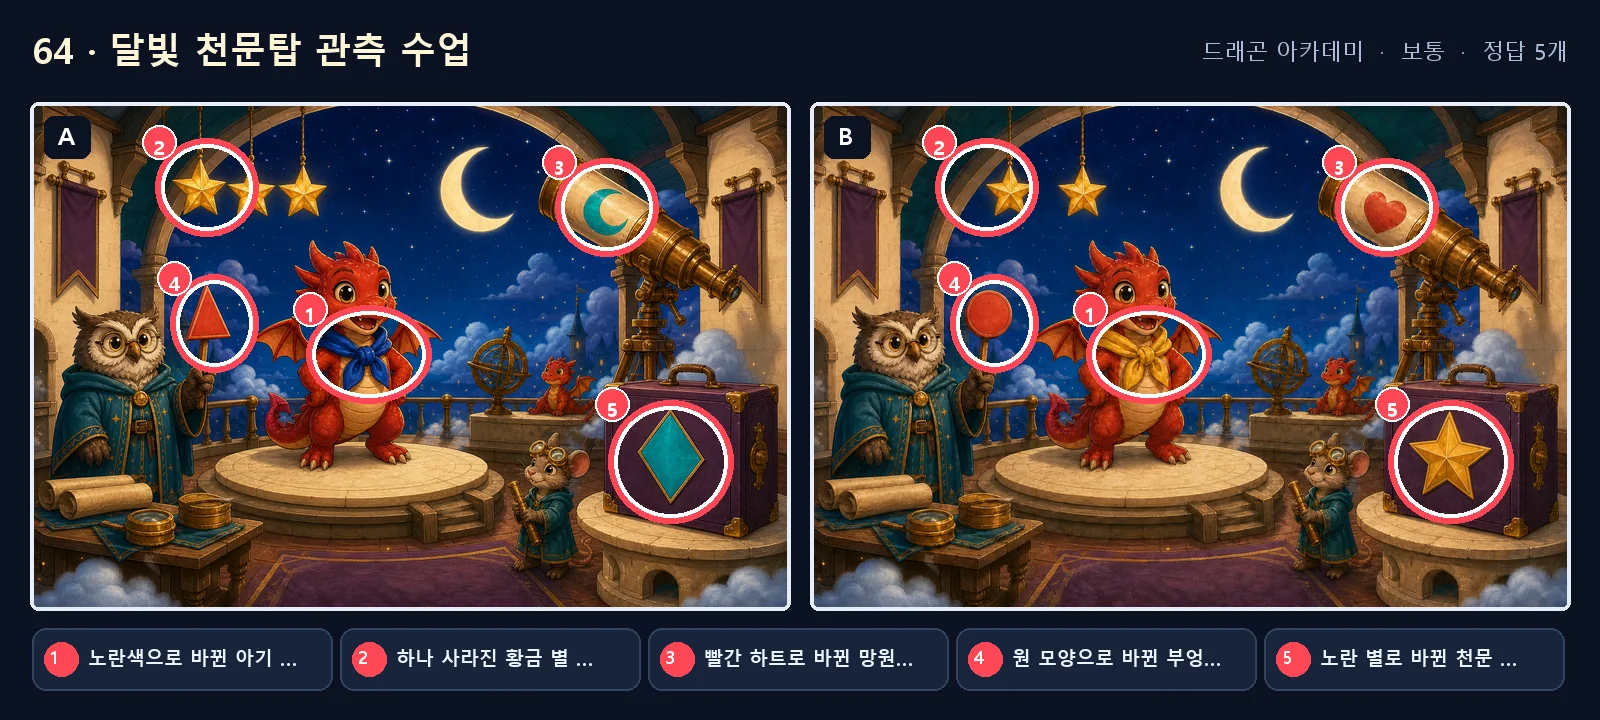
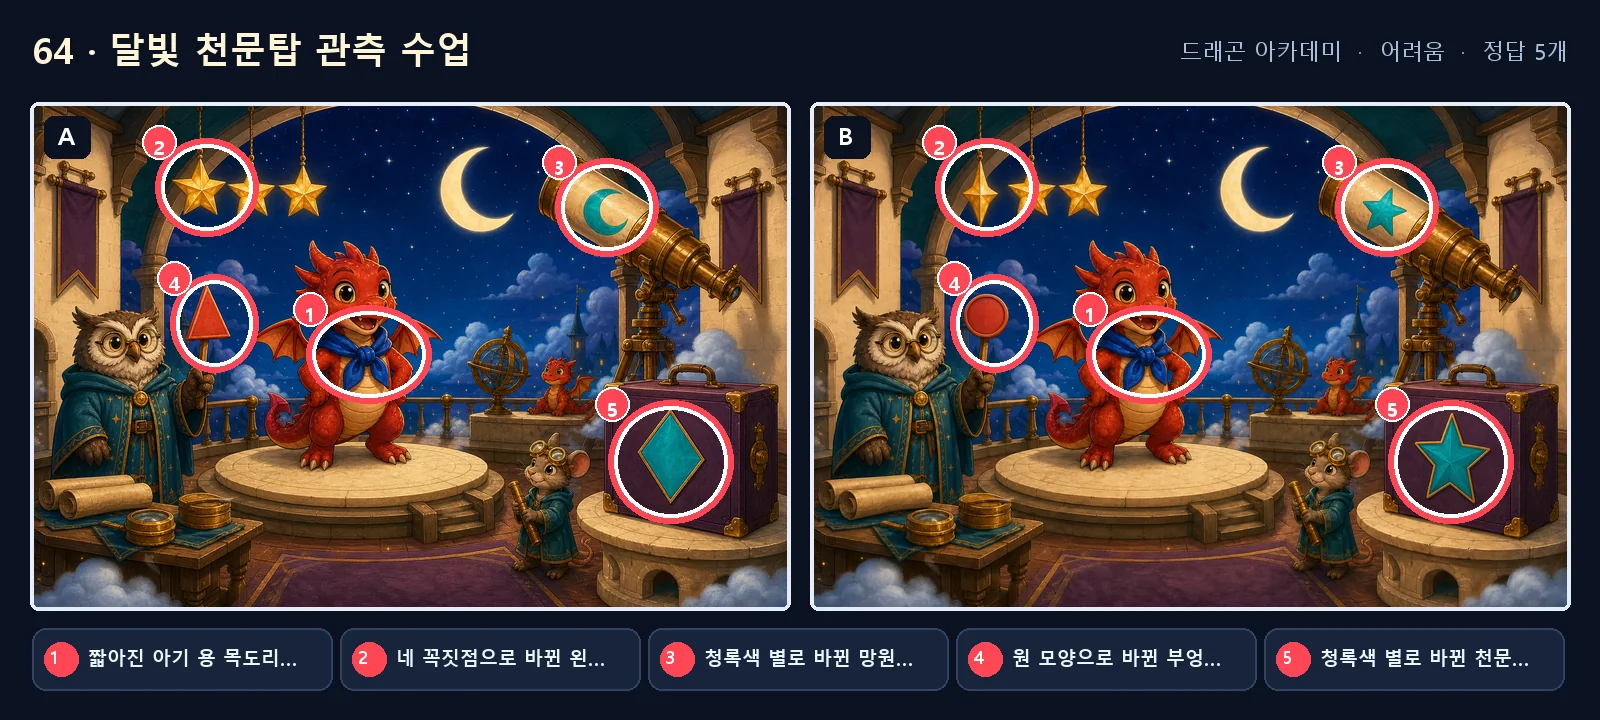
Increase difficulty for stages 64 and 65

diff --git a/tests/spot-difference-answer-sheets.spec.js b/tests/spot-difference-answer-sheets.spec.js
@@ -52,3 +52,28 @@ test('모바일 상세 화면에서도 피드백 버튼을 표시한다', async 
   await page.waitForLoadState('networkidle');
   await page.screenshot({ path: 'tests/screenshots/spot-difference-answer-sheet-detail-mobile.png' });
 });
+
+test('난이도 피드백을 반영한 64·65 스테이지 정답지를 표시한다', async ({ page }) => {
+  for (const stage of [
+    {
+      id: 'dragon-academy-moon-observatory-04',
+      title: '달빛 천문탑 관측 수업',
+      image: /64-dragon-academy-moon-observatory-04\.webp$/,
+      answer: '네 꼭짓점으로 바뀐 왼쪽 황금 별 등불',
+    },
+    {
+      id: 'dragon-academy-starlight-graduation-05',
+      title: '별구름 졸업 축제',
+      image: /65-dragon-academy-starlight-graduation-05\.webp$/,
+      answer: '가운데 등불에서 사라진 작은 받침 장식',
+    },
+  ]) {
+    await page.goto(`/minigame-paradise/spot-difference-answer-sheet.html?stage=${stage.id}`);
+    await expect(page.locator('.stage-head h1')).toHaveText(stage.title);
+    await expect(page.locator('.stage-meta')).toContainText('어려움');
+    await expect(page.locator('.answer-list li')).toHaveCount(5);
+    await expect(page.locator('.answer-list')).toContainText(stage.answer);
+    await expect(page.locator('.sheet img')).toHaveAttribute('src', stage.image);
+    await expect(page.locator('.sheet img')).toBeVisible();
+  }
+});
